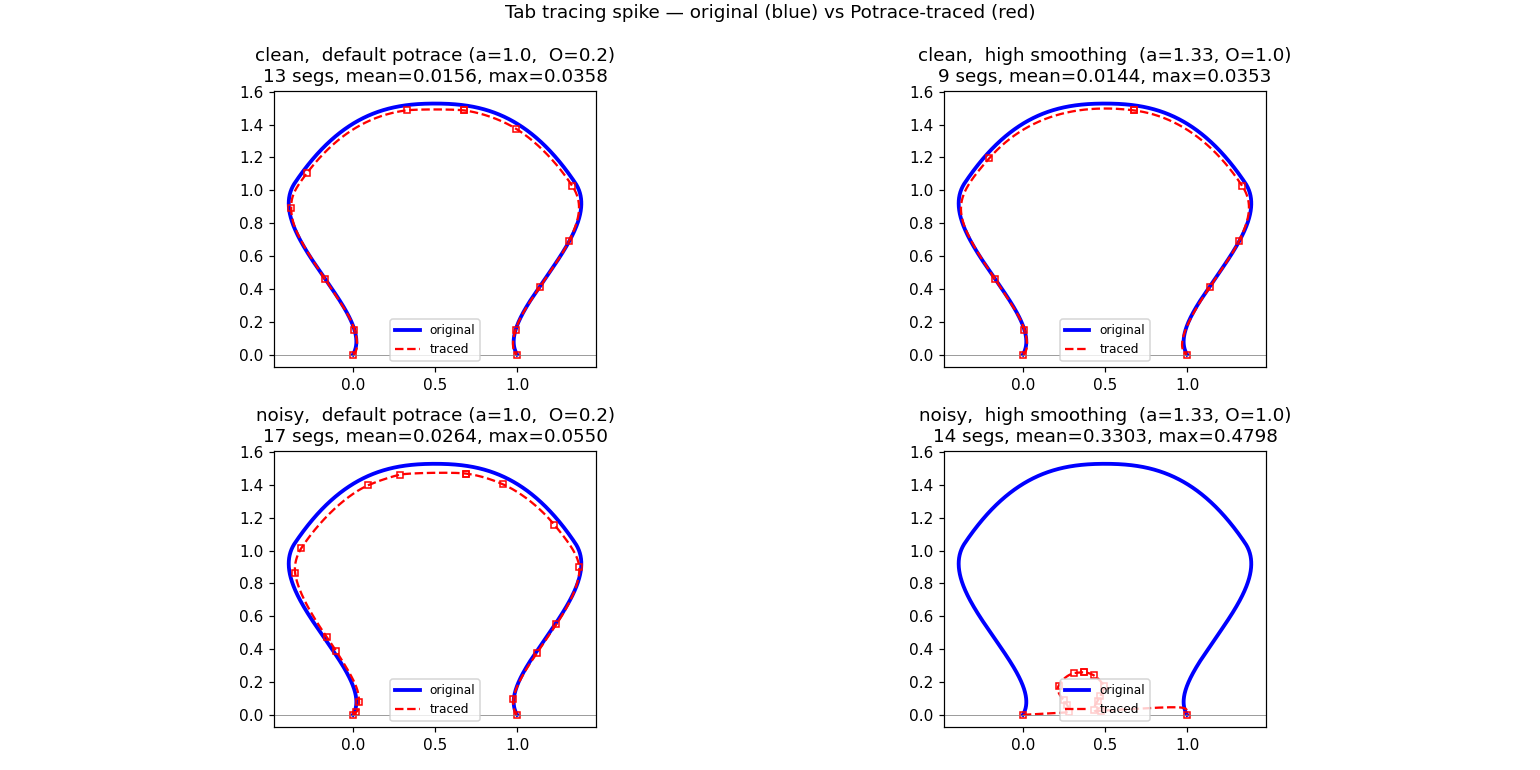
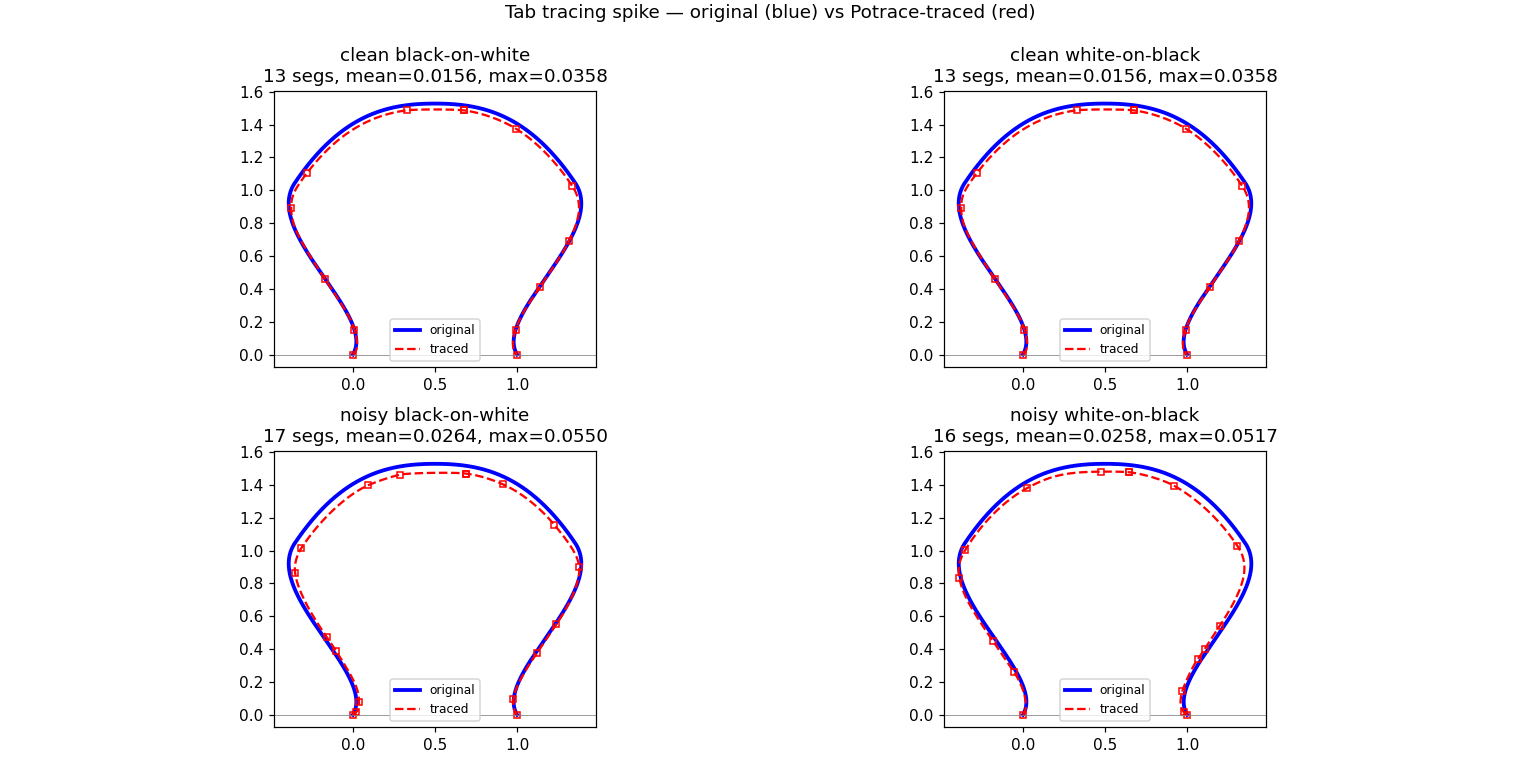
chore(spike): verify tracing handles both image polarities
Add an inverted (white-on-black) synthesis variant and an auto-polarity
detector that inspects the image border to decide which side is
background. Result: black-on-white and white-on-black silhouettes give
numerically identical traces, so the eventual photo capture protocol
can pick whichever polarity gives better contrast.

diff --git a/spike/tab-tracing/spike.py b/spike/tab-tracing/spike.py
@@ -101,10 +101,23 @@ PADDING = 100
 BASELINE_Y = 500  # image-y where the straight piece edge sits
 
 
-def synthesize(bez_path, png_out):
+def synthesize(bez_path, png_out, polarity="black_on_white"):
+    """
+    Render the tab silhouette to a PNG.
+
+    polarity:
+      "black_on_white" — background 255, piece+tab filled with 0.
+      "white_on_black" — background 0,   piece+tab filled with 255.
+    """
     width = PADDING * 2 + EDGE_LEN_PX
     height = BASELINE_Y + PADDING
-    img = np.full((height, width), 255, dtype=np.uint8)
+    if polarity == "black_on_white":
+        bg, fg = 255, 0
+    elif polarity == "white_on_black":
+        bg, fg = 0, 255
+    else:
+        raise ValueError(f"unknown polarity {polarity!r}")
+    img = np.full((height, width), bg, dtype=np.uint8)
 
     samples = sample_bezier_path(bez_path, samples_per_seg=200)
     px = (samples[:, 0] * EDGE_LEN_PX + PADDING).astype(np.int32)
@@ -119,9 +132,24 @@ def synthesize(bez_path, png_out):
         [0, BASELINE_Y],
         poly[0],
     ])
-    cv2.fillPoly(img, [poly], 0)
+    cv2.fillPoly(img, [poly], fg)
     cv2.imwrite(str(png_out), img)
     return img
+
+
+def detect_polarity(img):
+    """
+    Auto-detect: is the foreground (piece silhouette) dark or light?
+
+    Heuristic: the background touches the image border, so the dominant
+    border colour is the background. Whichever is foreground is the other.
+    Returns "black_on_white" or "white_on_black".
+    """
+    border = np.concatenate([
+        img[0, :], img[-1, :], img[:, 0], img[:, -1],
+    ])
+    border_mean = float(border.mean())
+    return "black_on_white" if border_mean > 127 else "white_on_black"
 
 
 # ---------------------------------------------------------------------------
@@ -136,6 +164,13 @@ def run_potrace(png_path, svg_out, alphamax=1.0, opttolerance=0.2):
     # closes tiny holes/specks. Real photos need this too.
     img = cv2.medianBlur(img, 5)
     _, img_bin = cv2.threshold(img, 127, 255, cv2.THRESH_BINARY)
+    # Auto-detect polarity: potrace expects the silhouette to be dark. If
+    # the background turned out darker than the foreground (i.e. we have
+    # white-on-black input), invert before tracing so the rest of the
+    # pipeline can stay polarity-agnostic.
+    polarity = detect_polarity(img_bin)
+    if polarity == "white_on_black":
+        img_bin = cv2.bitwise_not(img_bin)
     kernel = cv2.getStructuringElement(cv2.MORPH_ELLIPSE, (5, 5))
     img_bin = cv2.morphologyEx(img_bin, cv2.MORPH_OPEN, kernel)
     img_bin = cv2.morphologyEx(img_bin, cv2.MORPH_CLOSE, kernel)
@@ -470,9 +505,9 @@ def main():
     original = classic_tab()
     OUT.mkdir(exist_ok=True)
 
-    print("step 1: synthesizing reference PNG ...")
+    print("step 1: synthesizing reference PNG (black on white) ...")
     png_clean = OUT / "01-reference.png"
-    synthesize(original, png_clean)
+    synthesize(original, png_clean, polarity="black_on_white")
 
     print("step 1b: synthesizing noisy variant (photo simulation) ...")
     clean_img = cv2.imread(str(png_clean), cv2.IMREAD_GRAYSCALE)
@@ -480,14 +515,24 @@ def main():
     png_noisy = OUT / "01b-reference-noisy.png"
     cv2.imwrite(str(png_noisy), noisy_img)
 
+    print("step 1c: synthesizing inverted variant (white on black) ...")
+    png_inverted = OUT / "01c-reference-inverted.png"
+    synthesize(original, png_inverted, polarity="white_on_black")
+
+    print("step 1d: synthesizing noisy inverted variant ...")
+    inverted_img = cv2.imread(str(png_inverted), cv2.IMREAD_GRAYSCALE)
+    noisy_inverted = add_photo_noise(inverted_img)
+    png_inverted_noisy = OUT / "01d-reference-inverted-noisy.png"
+    cv2.imwrite(str(png_inverted_noisy), noisy_inverted)
+
     original_neck_frame = renormalize_original_to_neck_frame(original)
 
     print("step 2-4: running pipeline under several configurations ...")
     configs = [
-        ("clean,  default potrace (a=1.0,  O=0.2)", png_clean, OUT / "02-traced-clean-default.svg", 1.0, 0.2),
-        ("clean,  high smoothing  (a=1.33, O=1.0)", png_clean, OUT / "02-traced-clean-smooth.svg", 1.33, 1.0),
-        ("noisy,  default potrace (a=1.0,  O=0.2)", png_noisy, OUT / "02-traced-noisy-default.svg", 1.0, 0.2),
-        ("noisy,  high smoothing  (a=1.33, O=1.0)", png_noisy, OUT / "02-traced-noisy-smooth.svg", 1.33, 1.0),
+        ("clean black-on-white", png_clean,           OUT / "02-traced-clean-bow.svg",         1.0,  0.2),
+        ("clean white-on-black", png_inverted,        OUT / "02-traced-clean-wob.svg",         1.0,  0.2),
+        ("noisy black-on-white", png_noisy,           OUT / "02-traced-noisy-bow.svg",         1.0,  0.2),
+        ("noisy white-on-black", png_inverted_noisy, OUT / "02-traced-noisy-wob.svg",         1.0,  0.2),
     ]
 
     results = []
@@ -515,9 +560,9 @@ def main():
     fig.savefig(overlay, dpi=110)
     plt.close(fig)
 
-    # Save the best-quality clean result as the "winning" normalized path.
+    # Save the best-quality result as the "winning" normalized path.
     norm_json = OUT / "05-normalized.json"
-    best = min(results[:2], key=lambda r: r["max_dev"])
+    best = min(results, key=lambda r: r["max_dev"])
     norm_json.write_text(json.dumps(
         [{"x": p[0], "y": p[1]} for p in best["path"]],
         indent=2,

diff --git a/spike/tab-tracing/FINDINGS.md b/spike/tab-tracing/FINDINGS.md
@@ -34,14 +34,14 @@ neck endpoints is length 1). For the classic default the neck is roughly
 15% of the edge length, so multiply by ~0.15 to get edge-length fractions,
 and by ~150 to get pixels on a 1000-px edge.
 
-| Input | Potrace tuning | Segments | Mean dev | Max dev | ~Max dev @ 1000px edge |
+| Input | Polarity | Segments | Mean dev | Max dev | ~Max dev @ 1000px edge |
 |---|---|---:|---:|---:|---:|
-| Clean | default (a=1.0, O=0.2) | 13 | 0.0156 | 0.0358 | ~5.4 px |
-| Clean | smooth  (a=1.33, O=1.0) | **9** | **0.0144** | **0.0353** | **~5.3 px** |
-| Noisy | default (a=1.0, O=0.2) | 17 | 0.0264 | 0.0550 | ~8.3 px |
-| Noisy | smooth  (a=1.33, O=1.0) | 14 | 0.330  | 0.480  | catastrophic (see below) |
+| Clean | black-on-white | 13 | 0.0156 | 0.0358 | ~5.4 px |
+| Clean | white-on-black | 13 | 0.0156 | 0.0358 | ~5.4 px |
+| Noisy | black-on-white | 17 | 0.0264 | 0.0550 | ~8.3 px |
+| Noisy | white-on-black | 16 | 0.0258 | 0.0517 | ~7.8 px |
 
-(For reference: the classic hand-crafted template uses **4** cubic segments.)
+(For reference: the classic hand-crafted template uses **4** cubic segments. Earlier runs found that Potrace's smoothing knob `-a 1.33 -O 1.0` brings the clean case down to 9 segments at the same fidelity, but the same setting destroys the noisy case — so the default tuning is the safer choice for a real-photo pipeline.)
 
 See `out/03-overlay.png` for the visual comparison — the first three
 configurations overlay almost perfectly on the original tab shape.
@@ -58,6 +58,13 @@ realistic blur + sensor noise + specks) still came out to ~8 px max
 deviation after standard preprocessing (median blur, threshold, morph
 open/close). That preprocessing is generic and tunable; real photos will
 need similar steps plus perspective correction.
+
+**Polarity doesn't matter.** Black-on-white and white-on-black silhouettes
+produce numerically identical fits. The pipeline auto-detects polarity
+from the image border (whichever colour dominates the edge of the frame
+is treated as background) and inverts before tracing if needed. So a
+photographer can choose either light-tab/dark-mat or dark-tab/light-mat,
+whichever gives them better contrast.
 
 **Segment-count overhead is modest but real.** Potrace uses ~2–4× more
 segments than a hand-crafted template. That's the cost of automation. For
